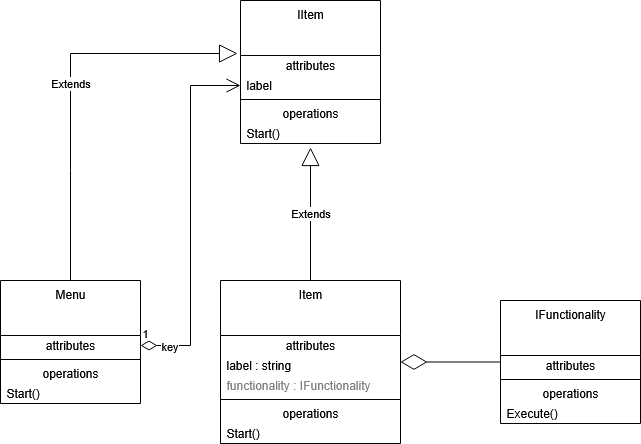
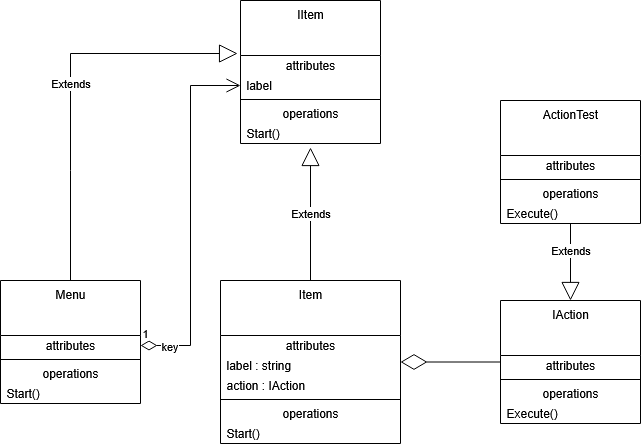
Add action execution in an item

diff --git a/MenuLibrary/Item.cs b/MenuLibrary/Item.cs
@@ -4,8 +4,21 @@ public class Item : IItem
 {
     public string Label { get; }
 
+    public IAction? Action { private get; set; }
+
     public Item(string label)
     {
         Label = label;
+    }
+
+    public Item(string label, IAction action)
+    {
+        Label = label;
+        Action = action;
+    }
+
+    public void Start()
+    {
+        Action?.Execute();
     }
 }

diff --git a/SupplierManagement/Program.cs b/SupplierManagement/Program.cs
@@ -4,3 +4,10 @@ Console.WriteLine("Supplier management");
 
 IItem item = new Item("item1");
 Console.WriteLine(item.Label);
+
+IAction action = new ActionTest();
+if (item is Item itemTest)
+{
+    itemTest.Action = action;
+    itemTest.Start();
+}

diff --git a/MenuLibrary/ActionTest.cs b/MenuLibrary/ActionTest.cs
@@ -1,0 +1,9 @@
+namespace MenuLibrary;
+
+public class ActionTest : IAction
+{
+    public void Execute()
+    {
+        Console.WriteLine("Execute action");
+    }
+}

diff --git a/MenuLibrary/IAction.cs b/MenuLibrary/IAction.cs
@@ -1,0 +1,6 @@
+namespace MenuLibrary;
+
+public interface IAction
+{
+    void Execute();
+}

diff --git a/MenuLibrary/IItem.cs b/MenuLibrary/IItem.cs
@@ -3,4 +3,5 @@
 public interface IItem
 {
     string Label { get; }
+    void Start();
 }
